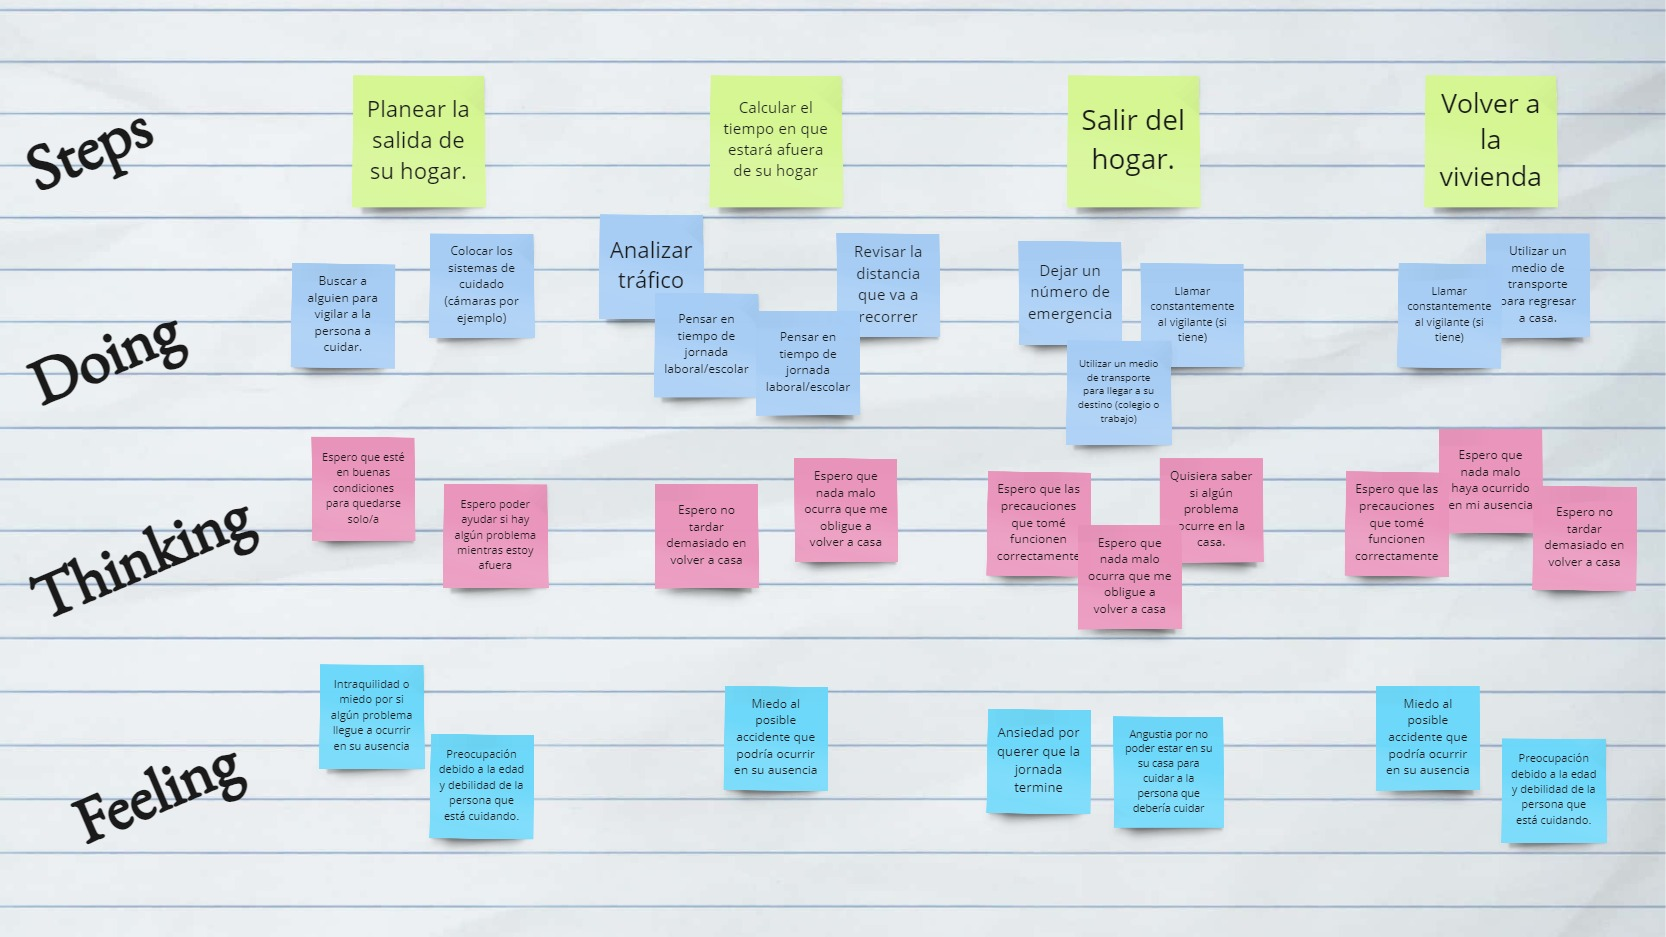
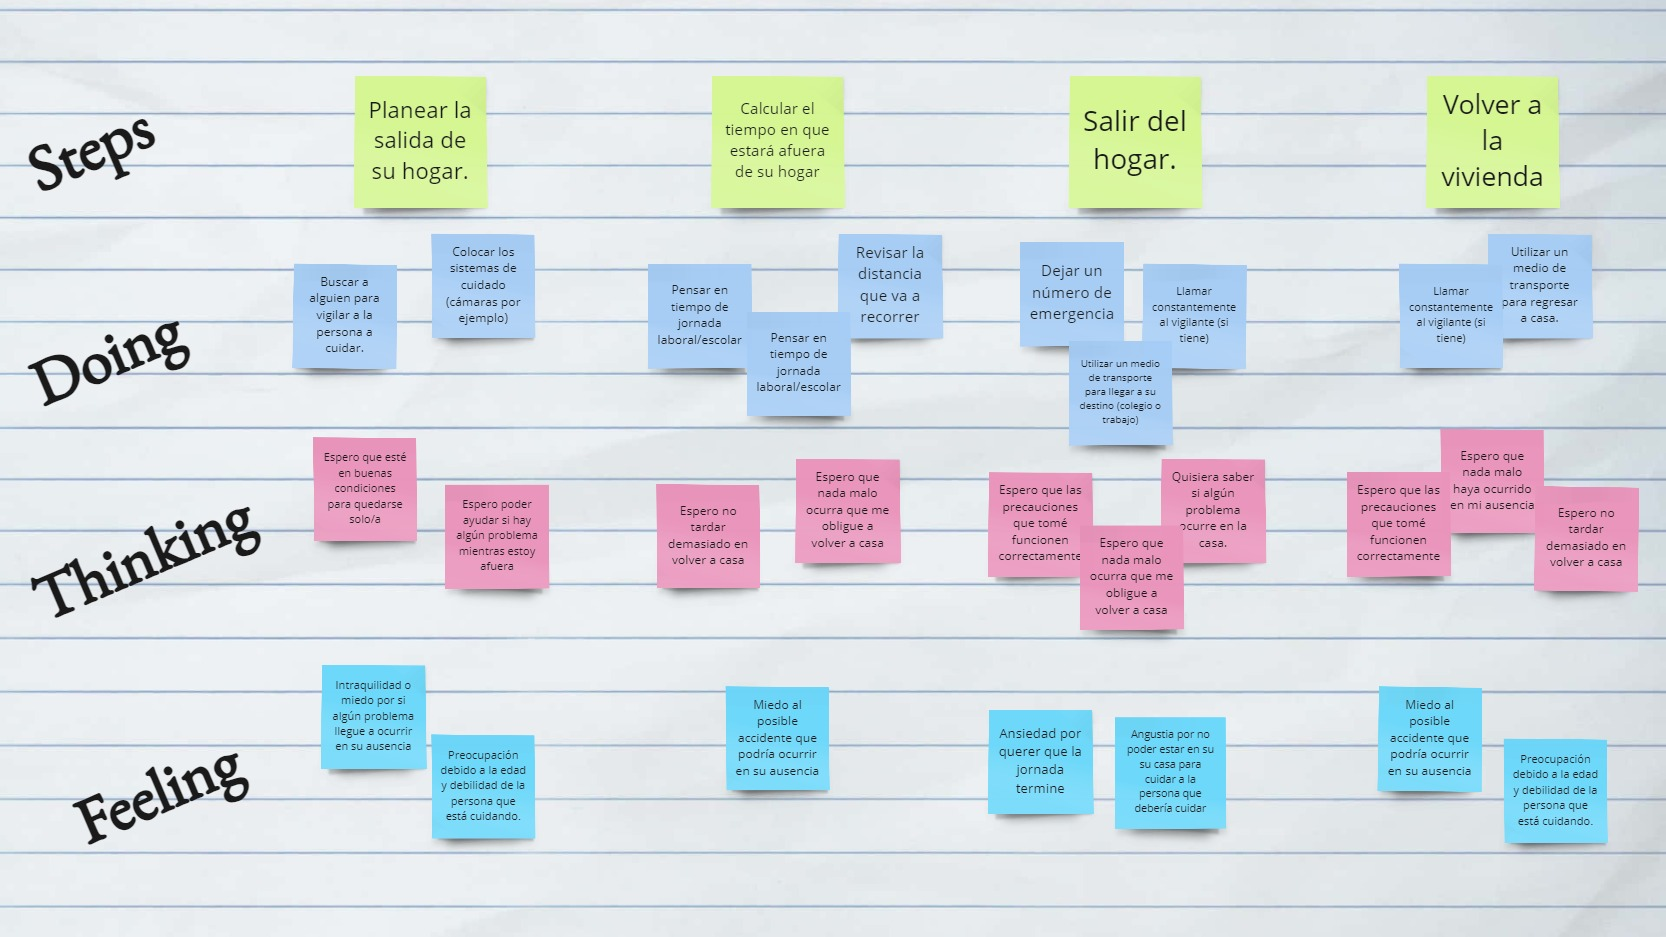
Fix: Ubiquitous Language
- Se quitaron descripciones técnicas de Ubiquitous Language
- Se añadieron descripciones relacionados al core de la aplicación
- Extra: Cambio del As Is Scenario Map

diff --git a/README.md b/README.md
@@ -582,15 +582,25 @@ En esta sección, se describirán las actividades que realizarían los usuarios 
 <img src="Assets\AsIs.jpg" width="596" height="334" style="padding-top: 12px;padding-bottom: 12px;">
 
 # 2.4. Ubiquitous Language
-(colocar 2 cada uno )
-+ **Pulsera Inteligente:**  
-Se refiere al dispositivo wearable que se utilizará para recopilar datos biométricos y de ubicación del adulto mayor en tiempo real.
 
-+ **Cuidador:**     
-  Persona responsable del cuidado y atención del adulto mayor, puede ser un familiar o un profesional de la salud.
++ **Elderly (Adulto mayor):**     
+  Una persona de la tercera edad (60 años a más).
 
-+ **Ubicación en Tiempo Real:**     
++ **Keeper (Cuidador):**     
+  Persona individual responsable del cuidado y atención de un adulto mayor, principalmente un familiar.
+
++ **Supervisor (Supervisor):**     
+  Persona individual responsable del cuidado y atención de varios adultos mayores, este supervisor representaría a un profesional de la salud.
+
++ **Real time ubication (Ubicación en Tiempo Real):**     
   Capacidad de rastrear la ubicación exacta del adulto mayor en todo momento, proporcionando tranquilidad al cuidador y permitiendo una respuesta rápida en caso de emergencia.
+
++ **Reminder (Recordatorio):**     
+  Recordatorio constante del consumo de consumo de medicina o de asistencia a una cita médica. Este recordatorio puede ser ya sea cada día, cada mes, o cada año.
+
+  + **Device purchase (Compra de dispositivo):**     
+  Se refiere al proceso de compra del dispositivo a través de medios oficiales, como podría ser nuestra aplicación web.
+
   # Capítulo III: Requirements Specification
 
 # 3.1. To-Be Scenario Mapping
